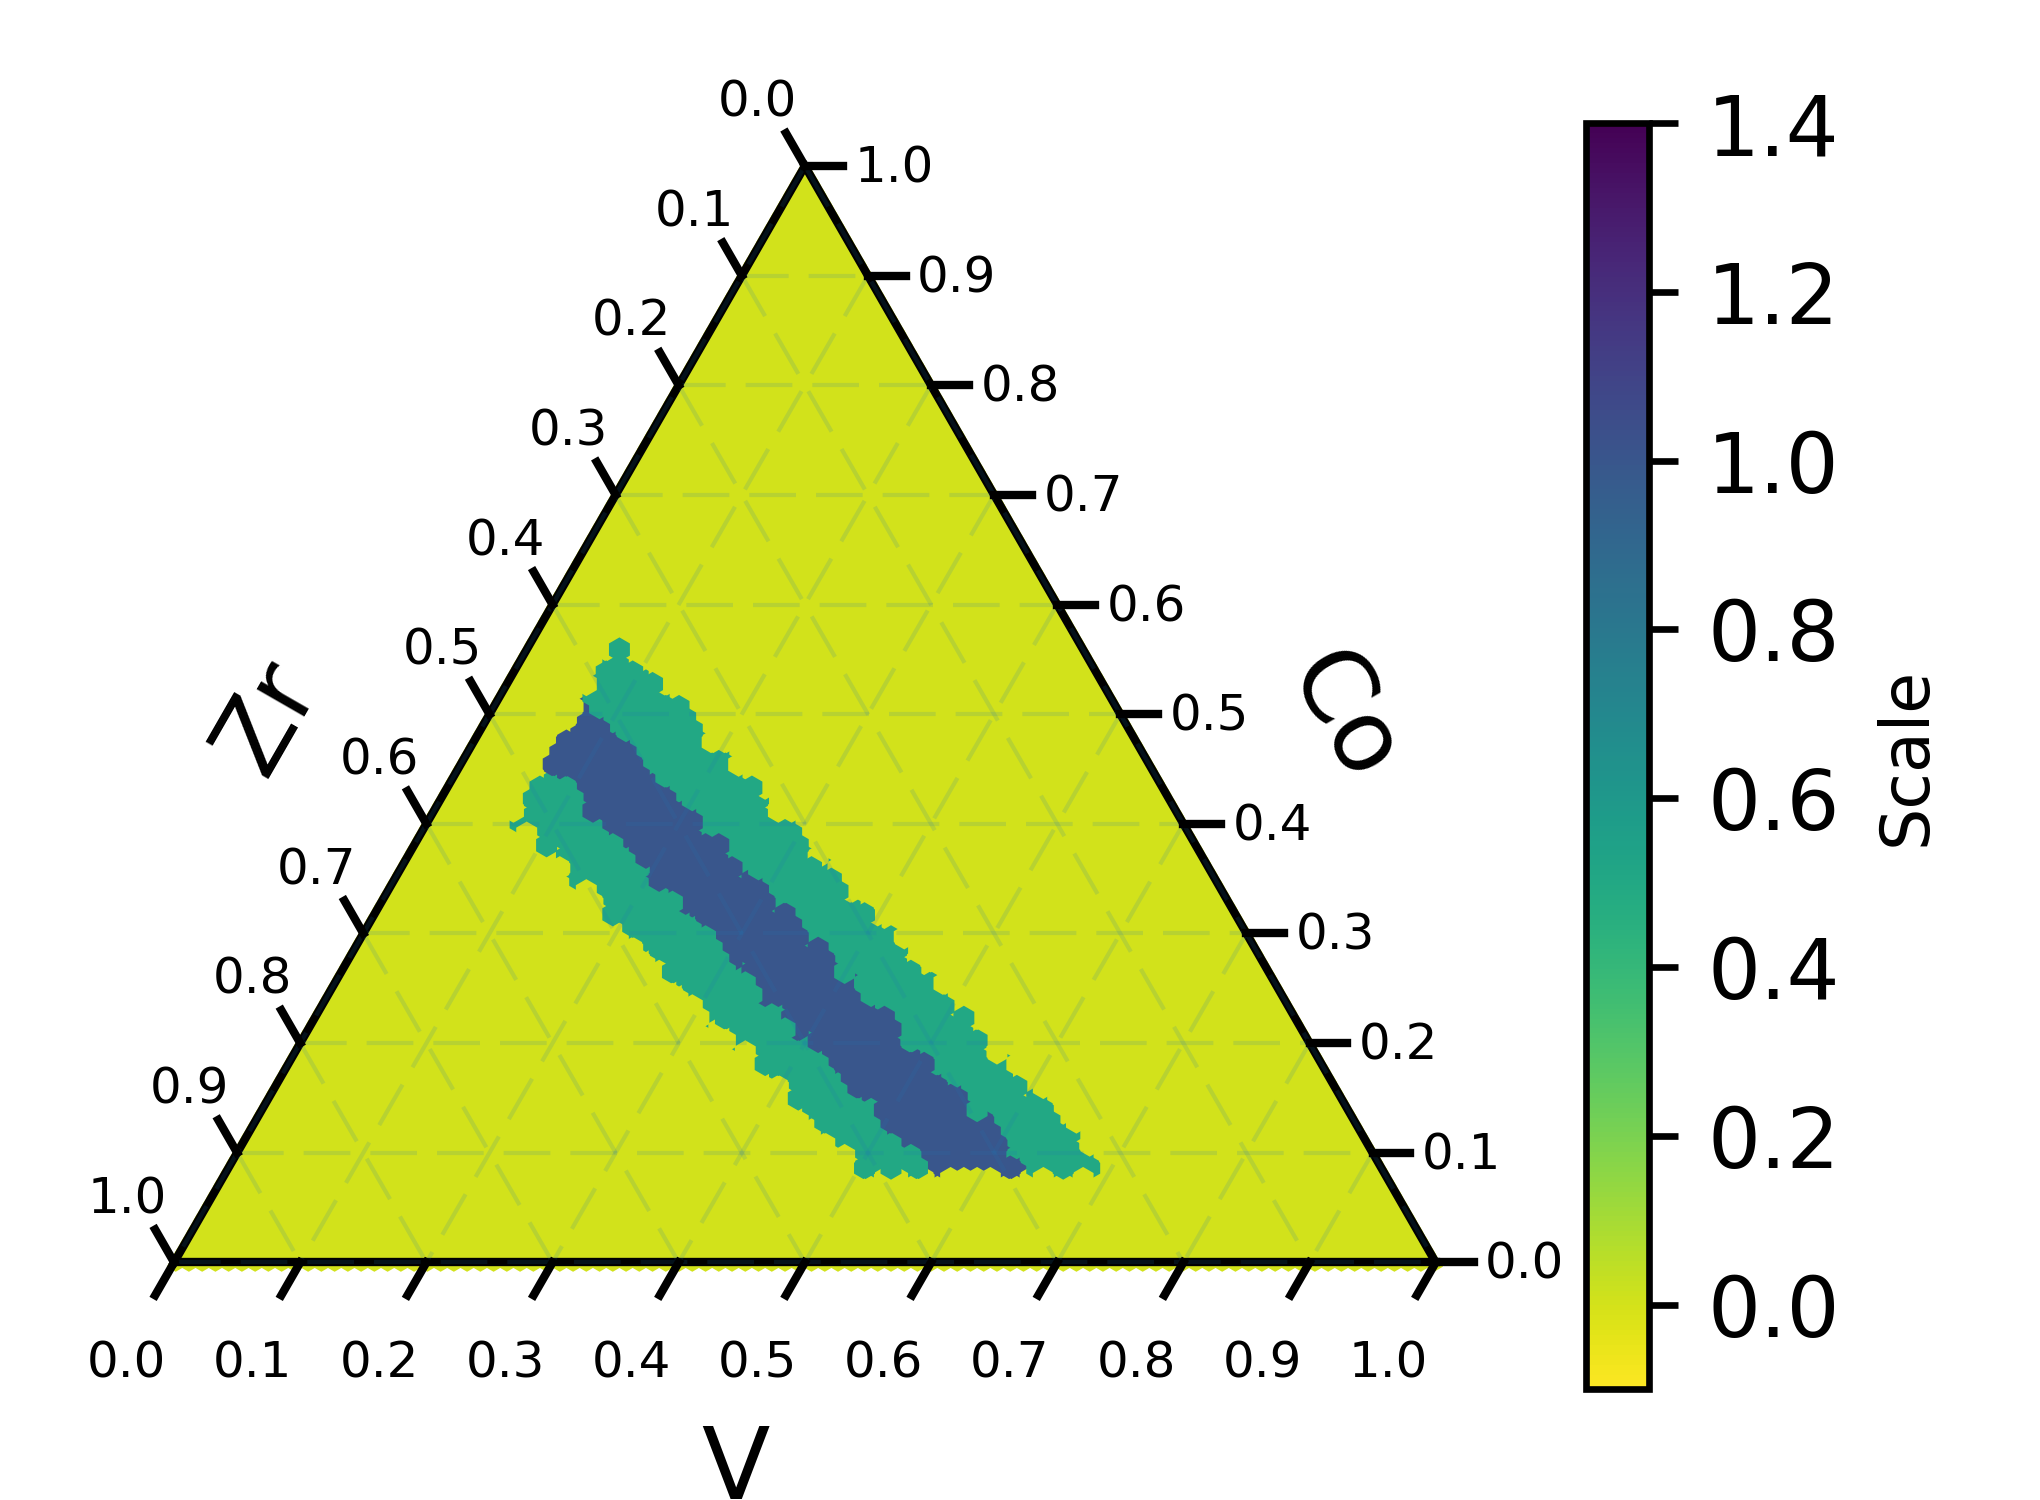
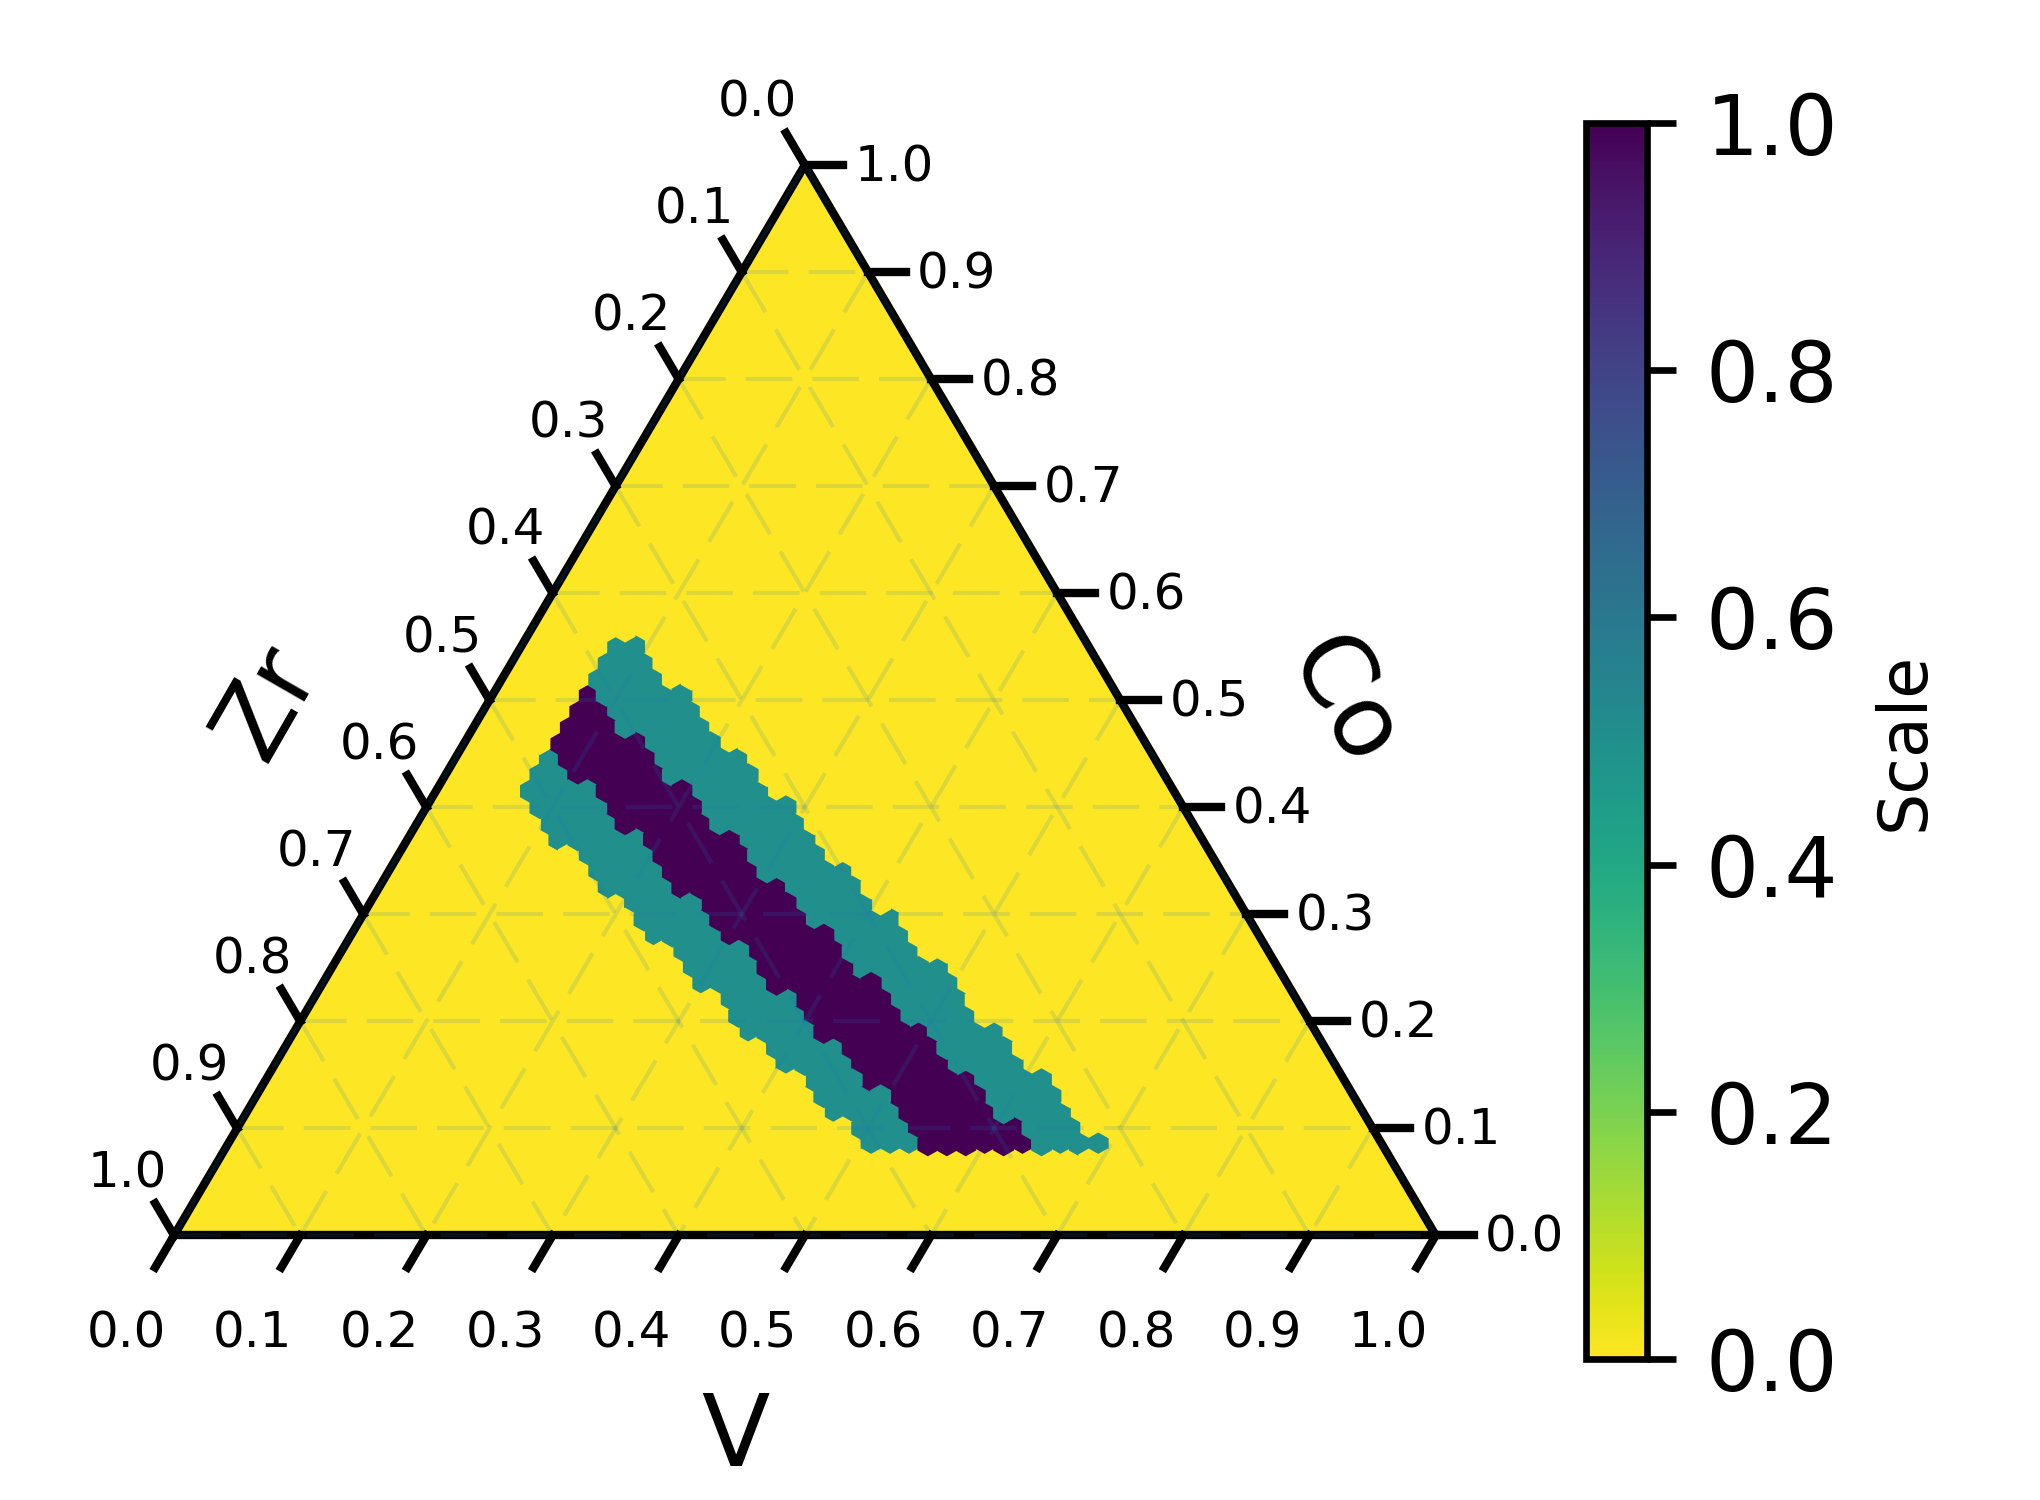
Added meltspin data and figure

diff --git a/scripts/figure_plotters/FigureS1_Scherrer equation.py b/scripts/figure_plotters/FigureS1_Scherrer equation.py
@@ -12,10 +12,10 @@ Scherrer equation
 import numpy as np
 import matplotlib.pyplot as plt
 
-lamda = 0.9762
+lamda = 0.9762 # x-ray energy
 K = 0.9  # shape factor
 
-# set up theta1 and theta2, both of them range from 0 to np.pi/4
+# set up theta1 and theta2, both of them range from 0 to np.pi/4, the units are radian
 theta1 = np.array(range(1000))
 theta1 = 0.00314 * theta1/4
 theta2 = np.array(range(1000))
@@ -25,9 +25,9 @@ Q1 = 4 * np.pi * np.sin(theta1) / lamda
 Q2 = 4 * np.pi * np.sin(theta2) / lamda
 
 
-BETA = []
+BETA_Q = []
 TAU = []
-BETA_r = []
+BETA_radian = []
 
 #theta = 0.61
 
@@ -36,25 +36,25 @@ for i in range(1000):
         beta_in_Q = Q1[j] - Q2[i]
         beta_in_radian = (theta1[j] - theta2[i]) * 2
         theta = (theta1[j] + theta2[i])/2
-        tau = K * lamda /(10* beta_in_radian * np.cos(theta))
-        BETA.append(beta_in_Q)
-        BETA_r.append(beta_in_radian)
+        tau = K * lamda /(10* beta_in_radian * np.cos(theta))  # the factor 10 changes the unit from angstrom to nm
+        BETA_Q.append(beta_in_Q)
+        BETA_radian.append(beta_in_radian)
         TAU.append(tau)
 
 
-BETA_r = np.array(BETA_r)
-BETA_degree = BETA_r * 180 / np.pi        
+BETA_radian = np.array(BETA_radian)
+BETA_degree = BETA_radian * 180 / np.pi
 
-crystalline = [3.5] * len(BETA)
-amorphous = [1] * len(BETA)
+crystalline = [3.5] * len(BETA_Q)
+amorphous = [1] * len(BETA_Q)
 
 
 save_path = '..//..//figures//'
 
 plt.figure(1)
-plt.plot(TAU, BETA, label = 'Scherrer equation')
-plt.plot(crystalline, BETA, label = 'crystalline, D > 3.5 nm')
-plt.plot(amorphous, BETA, label = 'amorphous, D < 1.0 nm')
+plt.plot(TAU, BETA_Q, label = 'Scherrer equation')
+plt.plot(crystalline, BETA_Q, label = 'crystalline, D > 3.5 nm')
+plt.plot(amorphous, BETA_Q, label = 'amorphous, D < 1.0 nm')
 plt.ylabel('FWHM in Q')
 plt.xlabel('D, nm')
 plt.xscale('log')
@@ -62,3 +62,9 @@ plt.xlim((0.9, 100))
 plt.ylim((0, 0.6))
 plt.legend()
 plt.savefig(save_path+'FigureS1.png', dpi = 600)
+
+
+# to plot the scherrer equation using Bragg angles (degrees), uncomment the following code
+plt.figure(2)
+plt.plot(TAU, BETA_degree)
+plt.xlim(0, 6)

diff --git a/scripts/figure_plotters/Figure_melt_spin_data_reconstruction.py b/scripts/figure_plotters/Figure_melt_spin_data_reconstruction.py
@@ -1,0 +1,71 @@
+"""
+author: fangren
+"""
+
+
+import numpy as np
+import imp
+
+plotTernary = imp.load_source("plt_ternary_save", "plotTernary.py")
+
+save_path = '..//..//figures//'
+
+Zr_range = np.arange(0, 100, 1.5)
+V_range = np.arange(0, 100, 1.5)
+
+Co_list = []
+V_list = []
+Zr_list = []
+
+label = []
+
+def line(V1, Zr1, V2, Zr2):
+    a = (Zr1-Zr2)/(V1-V2)
+    b = (Zr1-a*V1)*100
+    return a, b
+
+
+top = line(0.6, 0, 0, 0.6)
+
+meltspin_file = '..//..//data//meltspin_data.csv'
+meltspin_data = np.genfromtxt(meltspin_file, delimiter=',')
+
+measured = np.reshape(meltspin_data, (len(meltspin_data)/3, 3))
+
+#print measured
+measured_label = np.ones((len(meltspin_data)/3, 1))
+print measured_label.shape, measured.shape
+measured = np.concatenate((measured, measured_label), axis = 1)
+print measured.shape
+
+for Zr in Zr_range:
+    for V in V_range:
+        Co = 100 - Zr - V
+        if Co >=0 and Co <= 100:
+            Zr_list.append(Zr)
+            V_list.append(V)
+            Co_list.append(Co)
+            # print (V, Zr)
+            if V>=3 and top[0] * V + top[1] <= Zr:
+                label.append(0.4)
+            else:
+                label.append(0)
+
+
+Co_list = np.array(Co_list)
+V_list = np.array(V_list)
+Zr_list = np.array(Zr_list)
+label = np.array(label)
+
+Co_list = Co_list[label != 0]
+V_list = V_list[label != 0]
+Zr_list = Zr_list[label != 0]
+label = label[label != 0]
+
+
+ternary_data = np.concatenate(([Co_list], [V_list], [Zr_list], [label]), axis=0).T
+
+ternary_data = np.concatenate((ternary_data, measured))
+plotTernary.plt_ternary_save(ternary_data, tertitle='', labelNames=('Co', 'V', 'Zr'), scale=100,
+                             sv=True, svpth=save_path, svflnm= 'Figure_meltspin_reconstruction.png',
+                             cbl='Scale', vmax = 1, vmin = 0, cmap='gray_r', cb=True, style='h')

diff --git a/scripts/figure_plotters/FigureS5_thermodynamic_theory.py b/scripts/figure_plotters/FigureS5_thermodynamic_theory.py
@@ -30,8 +30,8 @@ path = '..//..//figures//'
 plotTernary = imp.load_source("plt_ternary_save", "plotTernary.py")
 
 
-Co_range = np.arange(0, 1, 0.01)
-V_range = np.arange(0, 1, 0.01)
+Co_range = np.arange(0, 1, 0.015)
+V_range = np.arange(0, 1, 0.015)
 
 
 Co_c = []
@@ -138,7 +138,7 @@ ternary_data = np.transpose(ternary_data)
 
 plotTernary.plt_ternary_save(ternary_data, tertitle='',  labelNames=('Co','V','Zr'), scale=100,
                       sv=True, svpth=path, svflnm='FigureS5',
-                      cbl='Glass formation', vmax = 1.4, vmin = -0.1, cmap='viridis_r', cb=True, style='h')
+                      cbl='Glass formation', vmax = 1, vmin = 0, cmap='viridis_r', cb=True, style='h')
 
 # np.savetxt(path+'thermodynamic.csv', ternary_data, delimiter=',')
 

diff --git a/scripts/figure_plotters/Figure4_structural_theory.py b/scripts/figure_plotters/Figure4_structural_theory.py
@@ -12,8 +12,8 @@ plotTernary = imp.load_source("plt_ternary_save", "plotTernary.py")
 
 save_path = '..//..//figures//'
 
-Zr_range = np.arange(0, 100, 1.05)
-V_range = np.arange(0, 100, 1.05)
+Zr_range = np.arange(0, 100, 1.5)
+V_range = np.arange(0, 100, 1.5)
 
 Co_list = []
 V_list = []
@@ -76,4 +76,4 @@ ternary_data = np.transpose(ternary_data)
 
 plotTernary.plt_ternary_save(ternary_data, tertitle='', labelNames=('Co', 'V', 'Zr'), scale=100,
                              sv=True, svpth=save_path, svflnm= 'Figure4.png',
-                             cbl='Scale', vmax = 1.4, vmin = -0.1, cmap='viridis_r', cb=True, style='h')
+                             cbl='Scale', vmax = 1, vmin = 0, cmap='viridis_r', cb=True, style='h')
